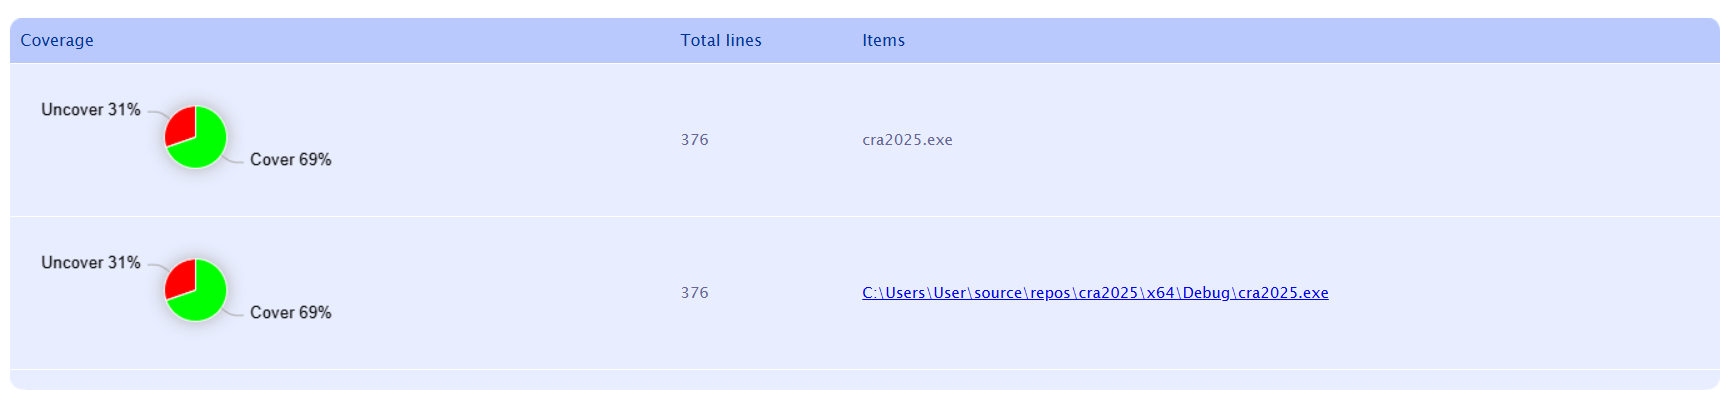
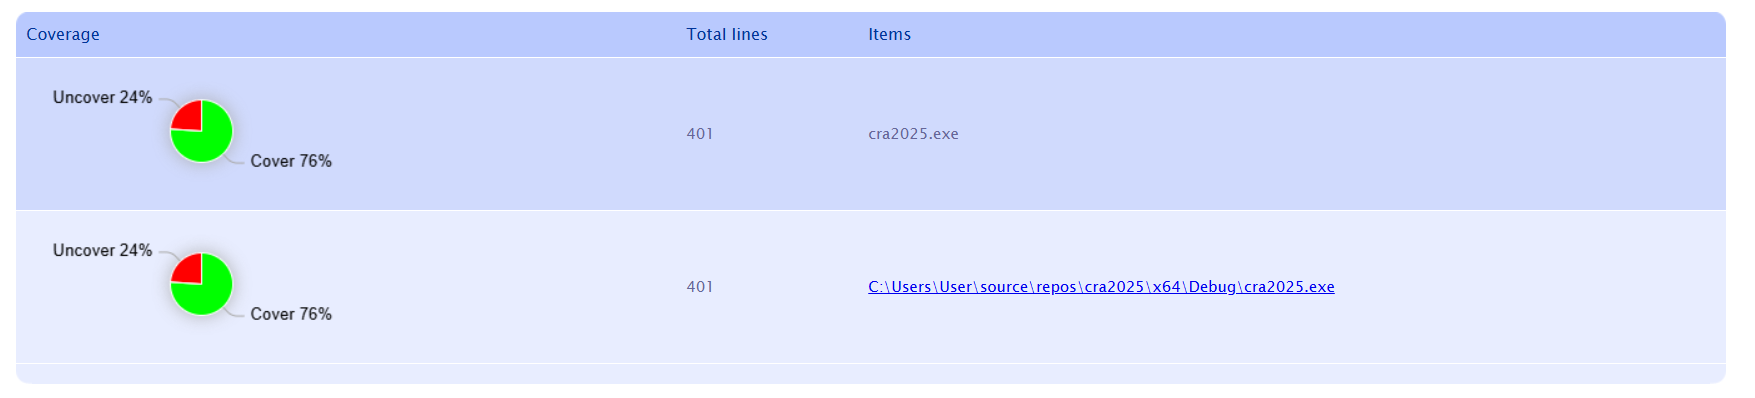
중간 제출 4

diff --git a/mission2/breaksystem_test.cpp b/mission2/breaksystem_test.cpp
@@ -16,8 +16,39 @@ public:
     BreakSystemFactory factory;
 };
 
-TEST_F(BrakeTest, getNameForGmEngine)
+TEST_F(BrakeTest, getNameForMando)
 {
     IBreakSystem* brake = factory.getBreakSystem(MANDO);
     EXPECT_EQ(brake->getName(), "MANDO");
 }
+
+TEST_F(BrakeTest, getTypeForMando)
+{
+    IBreakSystem* brake = factory.getBreakSystem(MANDO);
+    EXPECT_EQ(brake->getType(), MANDO);
+}
+
+TEST_F(BrakeTest, getNameForContinental)
+{
+    IBreakSystem* brake = factory.getBreakSystem(CONTINENTAL);
+    EXPECT_EQ(brake->getName(), "CONTINENTAL");
+}
+
+TEST_F(BrakeTest, getTypeForContinental)
+{
+    IBreakSystem* brake = factory.getBreakSystem(CONTINENTAL);
+    EXPECT_EQ(brake->getType(), CONTINENTAL);
+}
+
+TEST_F(BrakeTest, getNameForBosch)
+{
+    IBreakSystem* brake = factory.getBreakSystem(BOSCH_B);
+    EXPECT_EQ(brake->getName(), "BOSCH");
+}
+
+TEST_F(BrakeTest, getTypeForBosch)
+{
+    IBreakSystem* brake = factory.getBreakSystem(BOSCH_B);
+    EXPECT_EQ(brake->getType(), BOSCH_B);
+}
+
